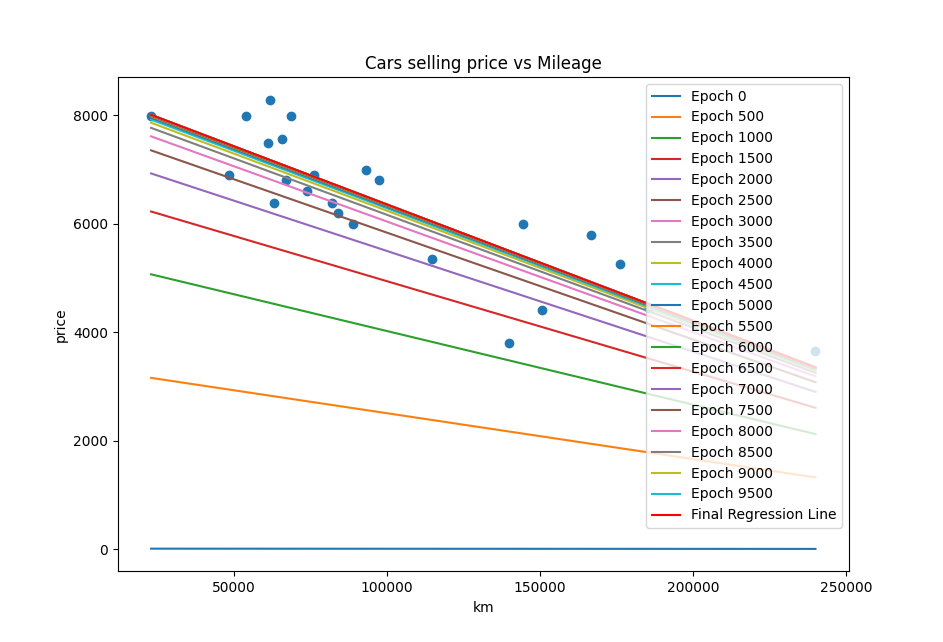
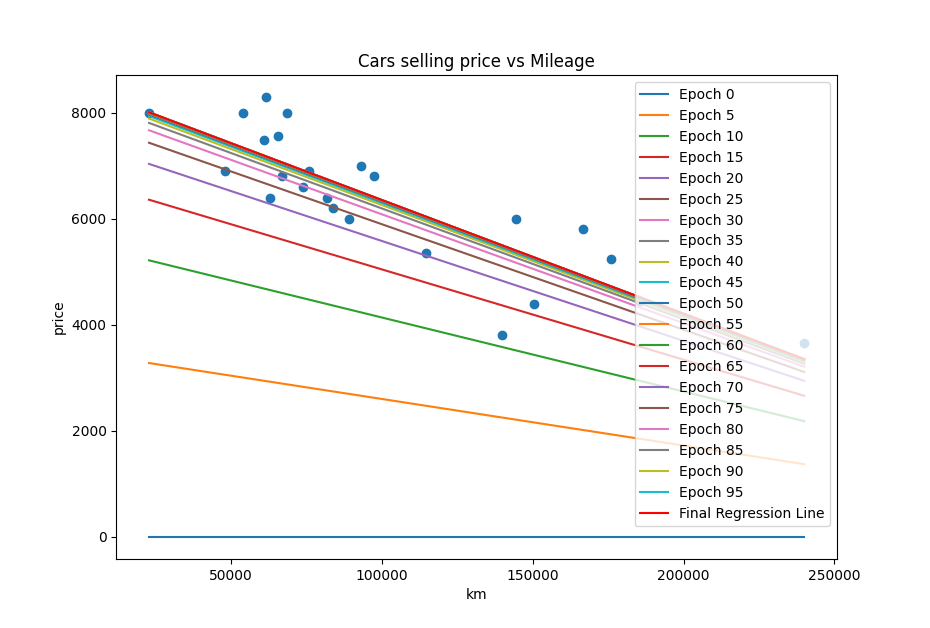
reduced number of epochs and increased learning rate for similar result with much less computing time. Added a new precision.py script to display mean squared error and coefficient of determination for the algorithm

diff --git a/precision.py b/precision.py
@@ -1,0 +1,70 @@
+import numpy as np
+import pandas as pd
+from sys import argv
+import os
+
+def calculateCost(km, prices, theta0, theta1):
+    """
+    Mean Squared Error:
+    To get a good idea of how close we are to the dataset, we take the square of
+    the difference between the real price and the estimate price with the chosen
+    parameters and get the average value which will be the "cost" 
+    """
+    m = len(prices)
+    cost = (1 / (m)) * np.sum((prices - (theta0 + theta1 * km))**2)
+    return cost
+
+def readData(filePath):
+    """
+    Gets data from the file and returns two arrays corresponding to mileage and price
+    """
+    data = pd.read_csv(filePath)
+    assert data is not None, "The data set is not a proper csv file"
+    assert data.shape[1] == 2, "The data set must contain exactly two columns"
+    x = data.iloc[:, 0]
+    y = data.iloc[:, 1]
+    return x, y
+
+def calculatePrecision(km, prices, theta0, theta1):
+    """
+    Calculates MSE, RMSE and Coefficient of determination. These values give an idea
+    of the performance of our model. The coefficient of determination is between 0 and 1,
+    a higher value indicating a better fit of our regression line to the original data.
+    """
+    mse = calculateCost(km, prices, theta0, theta1)
+    sqrtMse = np.sqrt(mse)
+    mean = sum(prices) / len(prices)
+    r2 = 1 - mse/(sum((prices - mean)**2) / len(prices))
+    print(f"Mean Squared Error: {mse}")
+    print(f"Root Mean Squared Error: {sqrtMse}")
+    print(f"Coefficient of determination: {r2}")
+
+
+def main():
+    try:
+        km, prices = readData('data.csv')
+        if os.path.isfile('thetas.csv') and os.access('thetas.csv', os.R_OK):
+            data = pd.read_csv('thetas.csv')
+            assert data is not None, "Something is wrong with the thetas.csv file."
+            if not data.empty and 'theta0' in data.columns and 'theta1' in data.columns:     
+                theta0 = float(data.loc[0, 'theta0'])
+                theta1 = float(data.loc[0, 'theta1'])
+            else:
+                print("Something is wrong with the thetas.csv file.")
+                return 1
+        else:
+            theta0 = 0
+            theta1 = 0
+        print("My linear regression:")
+        calculatePrecision(km, prices, theta0, theta1)
+        # pf = np.polyfit(km, prices, 1)
+        # print("\nnumpy.polyfit's linear regression:")
+        # calculatePrecision(km, prices, pf[1], pf[0])
+        
+    
+    except (Exception, AssertionError) as err:
+        print("Error: ", err)
+        return 1
+
+if __name__ == "__main__":
+    main()

diff --git a/train.py b/train.py
@@ -3,18 +3,6 @@ import pandas as pd
 import matplotlib.pyplot as plt
 from sys import argv
 
-def calculateCost(estimate, prices):
-    """
-    Mean Squared Error:
-    To get a good idea of how close we are to the dataset, we take the square of
-    the difference between the real price and the estimate price with the current
-    parameters and get the average value which will be the "cost" for the current
-    parameters
-    """
-    m = len(prices)
-    cost = (1 / (2*m)) * np.sum((estimate - prices)**2)
-    return cost
-
 def tryParams(km, tmp0, tmp1):
     """
     This function applies the current parameters to all the mileage data items and
@@ -40,19 +28,17 @@ def linearRegression(normKm, prices, kmMean, kmStd):
     """
     tmp0 = 0
     tmp1 = 0
-    epochs = 10000
-    learningRate = 0.001
-    costs = []
+    epochs = 100
+    learningRate = 0.1
     x = np.linspace(min(normKm), max(normKm), 100)
 
     for i in range(epochs):
         estimate = tryParams(normKm, tmp0, tmp1)
-        costs.append(calculateCost(estimate, prices))
+        # if i % 5 == 0:
+        #     deNormX = x * kmStd + kmMean
+        #     y = tmp0 + tmp1 * x
+        #     plt.plot(deNormX, y, label=f'Epoch {i}')
         tmp0, tmp1 = updateParams(estimate, normKm, prices, tmp0, tmp1, learningRate)
-        if i % 500 == 0:
-            deNormX = x * kmStd + kmMean
-            y = tmp0 + tmp1 * x
-            plt.plot(deNormX, y, label=f'Epoch {i}')
     deNormX = x * kmStd + kmMean
     y = tmp0 + tmp1 * x
     plt.plot(deNormX, y, 'r', label='Final Regression Line')
@@ -99,16 +85,12 @@ def main():
             "theta1": [theta1]
         })
         df.to_csv("thetas.csv", index=False)
-        print("Final theta values saved to thetas.csv")
+        print("Values saved in thetas.csv")
         plt.scatter(km, prices)
         plt.show()
         return 0
     
-    except AssertionError as err:
-        print("Error: ", err)
-        return 1
-
-    except Exception as err:
+    except (AssertionError, Exception) as err:
         print("Error: ", err)
         return 1
 

diff --git a/predict.py b/predict.py
@@ -30,10 +30,11 @@ def main():
             except ValueError:
                 print("Invalid input. Please enter a valid float.")
         print("Estimated selling price for a car with a mileage of ", value, " km : ", theta0 + value * theta1)
-    except AssertionError as err:
+        return 0
+    
+    except (AssertionError, Exception) as err:
         print("Error: ", err)
-    except Exception as err:
-        print("Error: ", err)
+        return 1
         
 if __name__ == "__main__":
     main()

diff --git a/README.md b/README.md
@@ -11,7 +11,7 @@ This particular example is very simple since it only features one independant va
 
 ### train.py
 The train.py script takes the data.csv as input, which contains data about selling prices of cars depending on their mileage in kilometers.   
-This data is used to do the training and find the best parameters for our model, using a gradient descent algorithm to update our two parameters theta0 and theta1 until the mean squared error is close enough to a minimum. The following picture represents a few of the different tries made by the algorithm, starting from theta0 = 0 and theta1 = 0 (Epoch 0) to values that get closer and closer to a minimum cost (Epoch 10000).
+This data is used to do the training and find the best parameters for our model, using a gradient descent algorithm to update our two parameters theta0 and theta1 until the mean squared error is close enough to a minimum. The following picture represents a few of the different tries made by the algorithm, starting from theta0 = 0 and theta1 = 0 (Epoch 0) to values that get closer and closer to a minimum cost (Epoch 100).
 
 ![Linear Regression](images/multiple_lines.png)
 
